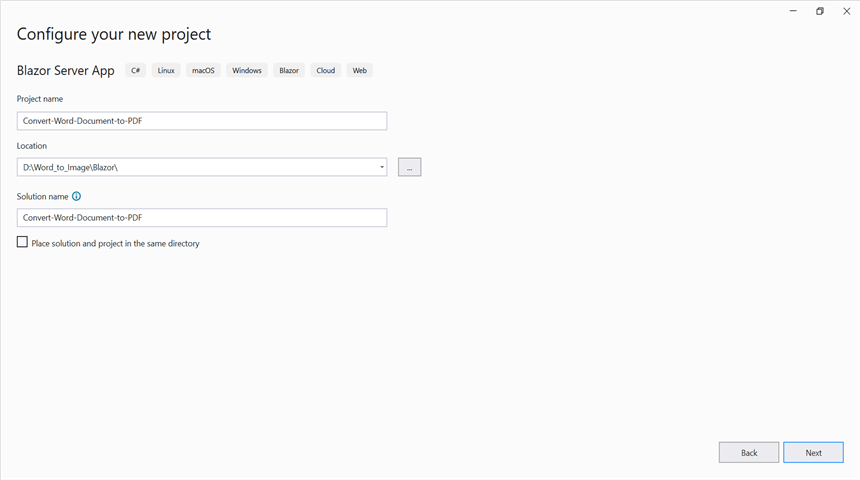
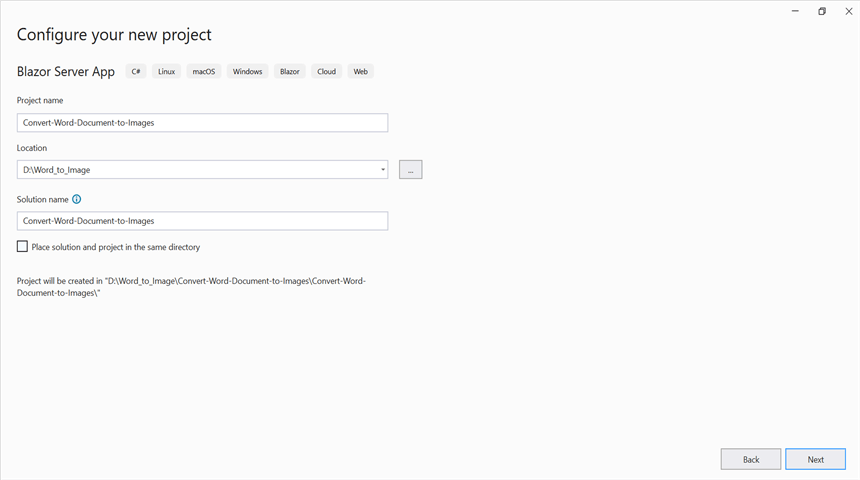
ES-829648-Word to Image

diff --git a/File-Formats/DocIO/Convert-Word-Document-to-Image-in-Blazor.md b/File-Formats/DocIO/Convert-Word-Document-to-Image-in-Blazor.md
@@ -1,0 +1,363 @@
+---
+title: Convert Word to Image in Blazor | DocIO | Syncfusion 
+description: Convert Word to Image without Microsoft Word or interop dependencies in Blazor application using Blazor Word (DocIO) library.
+platform: file-formats
+control: DocIO
+documentation: UG
+---
+
+# Convert Word document to Image in Blazor
+
+Syncfusion DocIO is a [Blazor Word library](https://www.syncfusion.com/document-processing/word-framework/blazor/word-library) used to create, read, edit, and **convert Word documents** programmatically without **Microsoft Word** or interop dependencies. Using this library, you can **convert a Word document to Image in Blazor**.
+
+## Word to Image in Blazor Server app
+
+Step 1: Create a new C# Blazor Server app project. Select Blazor Server App from the template and click the Next button.
+
+![Create Blazor Server app](Blazor_Images/Create-server-project-WordToPDF.png)
+
+Step 2: Now, the project configuration window will popup. Click Create button to create a new project with the required project name.
+
+![Create a project name for your new project](Blazor_Images/Configuration-WordtoImage.png)
+
+
+Step 3: To **convert a Word document to Image in server app**, install [Syncfusion.DocIORenderer.Net.Core](https://www.nuget.org/packages/Syncfusion.DocIORenderer.Net.Core) to the Blazor project.
+
+![Install Syncfusion.DocIORenderer.Net.Core NuGet Package](Blazor_Images/Nuget-Package-WordtoImage.png)
+
+N> Starting with v16.2.0.x, if you reference Syncfusion assemblies from trial setup or from the NuGet feed, you also have to add "Syncfusion.Licensing" assembly reference and include a license key in your projects. Please refer to this [link](https://help.syncfusion.com/common/essential-studio/licensing/overview) to know about registering Syncfusion license key in your application to use our components.
+
+Step 4: Create a razor file with name as **DocIO** under **Pages** folder and include the following namespaces in the file.
+
+
+{% tabs %}
+{% highlight c# tabtitle="C#" %}
+
+@page "/docio"
+@using Convert_Word_Document_to_Image;
+@inject Convert_Word_Document_to_Image.Data.WordService service;
+@inject Microsoft.JSInterop.IJSRuntime JS;
+
+{% endhighlight %}
+{% endtabs %}
+
+Step 5: Add the following code in **DocIO.razor** file to create a new button.
+
+{% tabs %}
+{% highlight CSHTML %}
+
+<h2>Syncfusion DocIO library </h2>
+<p>Syncfusion DocIO library is a Blazor DocIO library used to create, read, edit, and convert Word files in your applications without Microsoft Office dependencies.</p>
+<button class="btn btn-primary" @onclick="@ConvertWordtoImage">Convert Word to Image</button>
+
+{% endhighlight %}
+{% endtabs %}
+
+Step 6: Add the following code in **DocIO.razor** file to create and download the **Image**.
+
+{% tabs %}
+{% highlight c# tabtitle="C#" %}
+@code {
+    MemoryStream documentStream;
+    /// <summary>
+    /// Convert Word to Image and download the Image file
+    /// </summary>
+    protected async void ConvertWordtoImage()
+    {
+        documentStream = service.ConvertWordtoImage();
+        await JS.SaveAs("wordtoimage.jpeg", documentStream.ToArray());
+    }
+}
+{% endhighlight %}
+{% endtabs %}
+
+Step 7: Create a new cs file with name as **WordService** under Data folder and include the following namespaces in the file.
+
+{% tabs %}
+
+{% highlight c# tabtitle="C#" %}
+
+using Syncfusion.DocIO;
+using Syncfusion.DocIO.DLS;
+using Syncfusion.DocIORenderer;
+
+{% endhighlight %}
+
+{% endtabs %}
+
+Step 8: Create a new MemoryStream method with name as **ConvertWordtoImage** in **WordService** class and include the following code snippet to **convert the Word document to Image** in Server app.
+
+{% tabs %}
+
+{% highlight c# tabtitle="C#" %}
+
+//Open the file as Stream
+using (FileStream sourceStreamPath = new FileStream(@"wwwroot/Template.docx", FileMode.Open, FileAccess.Read, FileShare.ReadWrite))
+{
+    //Open an existing Word document.
+    using (WordDocument document = new WordDocument(sourceStreamPath, FormatType.Docx))
+    {
+        //Instantiation of DocIORenderer for Word to Image conversion
+        using (DocIORenderer render = new DocIORenderer())
+        {
+            Stream imageStream = document.RenderAsImages(0, ExportImageFormat.Jpeg);
+            //Reset the stream position.
+            imageStream.Position = 0;
+            return (MemoryStream)imageStream;
+        }
+    }
+}
+
+{% endhighlight %}
+
+{% endtabs %}
+
+Step 9: Create a new class file in the project, with name as FileUtils and add the following code to invoke the JavaScript action to download the file in the browser.
+
+{% tabs %}
+
+{% highlight c# tabtitle="C#" %}
+
+public static class FileUtils
+{
+    public static ValueTask<object> SaveAs(this IJSRuntime js, string filename, byte[] data)
+    => js.InvokeAsync<object>(
+           "saveAsFile",
+           filename,
+           Convert.ToBase64String(data));
+}
+{% endhighlight %}
+
+{% endtabs %}
+
+Step 10: Add the following JavaScript function in the _Host.cshtml in the Pages folder.
+
+{% tabs %}
+
+{% highlight HTML %}
+
+<script type="text/javascript">
+    function saveAsFile(filename, bytesBase64) {
+        if (navigator.msSaveBlob) {
+            //Download document in Edge browser
+            var data = window.atob(bytesBase64);
+            var bytes = new Uint8Array(data.length);
+            for (var i = 0; i < data.length; i++) {
+                bytes[i] = data.charCodeAt(i);
+            }
+            var blob = new Blob([bytes.buffer], { type: "application/octet-stream" });
+            navigator.msSaveBlob(blob, filename);
+        }
+        else {
+            var link = document.createElement('a');
+            link.download = filename;
+            link.href = "data:application/octet-stream;base64," + bytesBase64;
+            document.body.appendChild(link); // Needed for Firefox
+            link.click();
+            document.body.removeChild(link);
+        }
+    }
+</script>
+
+{% endhighlight %}
+
+{% endtabs %}
+
+Step 11: Add the following code snippet in the razor file of Navigation menu in the Shared folder.
+
+{% tabs %}
+
+{% highlight HTML %}
+
+<div class="nav-item px-3">
+    <NavLink class="nav-link" href="docio">
+        <span class="oi oi-list-rich" aria-hidden="true"></span> Convert Word to Image
+    </NavLink>
+</div>
+
+{% endhighlight %}
+
+{% endtabs %}
+
+You can download a complete working sample from [GitHub](https://github.com/SyncfusionExamples/DocIO-Examples/tree/main/Word-to-PDF-Conversion/Convert-Word-document-to-PDF/Blazor/Server-app).
+
+By executing the program, you will get the **Image** as follows.
+
+![Blazor Server app output Image](WordToPDF_images/Output-WordtoImage.png)
+
+## Word to Image in Blazor WASM app
+
+Step 1: Create a new C# Blazor WASM app project. Select Blazor App from the template and click the Next button.
+
+![Create  Blazor WebAssembly app ](Blazor_Images/Blazor_WASM.png)
+
+Step 2: Now, the project configuration window will popup. Click Create button to create a new project with the required project name.
+
+![Create a project name for your new project](Blazor_Images/Web_Assembly_WordtoImage.png)
+
+Step 3: Install the following **Nuget packages** in your application from [Nuget.org](https://www.nuget.org/).
+* [Syncfusion.DocIORenderer.Net.Core](https://www.nuget.org/packages/Syncfusion.DocIORenderer.Net.Core)
+* [SkiaSharp.NativeAssets.WebAssembly](https://www.nuget.org/packages/SkiaSharp.NativeAssets.WebAssembly)
+
+![Install Syncfusion.DocIORenderer.Net.Core NuGet Package](Blazor_Images/Nuget-Package-WordtoImage.png)
+![Install SkiaSharp.NativeAssets.WebAssembly NuGet Package](Blazor_Images/SkiaSharp-Nuget-WordtoPDF.png)
+
+N> Starting with v16.2.0.x, if you reference Syncfusion assemblies from trial setup or from the NuGet feed, you also have to add "Syncfusion.Licensing" assembly reference and include a license key in your projects. Please refer to this [link](https://help.syncfusion.com/common/essential-studio/licensing/overview) to know about registering Syncfusion license key in your application to use our components.
+
+Step 4: Add the following ItemGroup tag in the **Blazor WASM csproj** file.
+{% tabs %}
+
+{% highlight XAML  %}
+<ItemGroup>
+    <NativeFileReference Include="$(SkiaSharpStaticLibraryPath)\2.0.23\*.a" />
+</ItemGroup>
+{% endhighlight %}
+
+{% endtabs %}
+
+N> Install this wasm-tools and wasm-tools-net6 by using the "dotnet workload install wasm-tools" and "dotnet workload install wasm-tools-net6" commands in your command prompt respectively if you are facing issues related to Skiasharp during runtime.
+
+Step 5: Enable the following property in the Blazor WASM csproj file.
+
+{% tabs %}
+{% highlight XAML %}
+<PropertyGroup>
+    <WasmNativeStrip>true</WasmNativeStrip>
+</PropertyGroup>
+{% endhighlight %}
+{% endtabs %}
+
+Step 6: Create a razor file with name as ``DocIO`` under ``Pages`` folder and add the following namespaces in the file.
+
+{% tabs %}
+
+{% highlight c# tabtitle="C#" %}
+@page "/docio"
+@using Syncfusion.DocIO
+@using Syncfusion.DocIORenderer
+@using Syncfusion.DocIO.DLS
+@inject Microsoft.JSInterop.IJSRuntime JS
+@inject HttpClient client
+{% endhighlight %}
+
+{% endtabs %}
+
+Step 7: Add the following code to create a new button.
+
+{% tabs %}
+
+{% highlight CSHTML %}
+
+<h2>Syncfusion DocIO library (Essential DocIO)</h2>
+<p>Syncfusion Blazor DocIO library (Essential DocIO) used to create, read, edit, and convert DocIO files in your applications without Microsoft Office dependencies.</p>
+<button class="btn btn-primary" @onclick="@WordToImage">Convert Word to Image</button>
+
+{% endhighlight %}
+
+{% endtabs %}
+
+Step 8: Create a new async method with name as ``WordToImage`` and include the following code snippet to **convert a Word document to Image in Blazor** WASM app.
+
+{% tabs %}
+
+{% highlight c# tabtitle="C#" %}
+
+using (Stream inputStream = await client.GetStreamAsync("sample-data/Input.docx"))
+{
+    //Open an existing Word document.
+    using (WordDocument document = new WordDocument(inputStream, FormatType.Automatic))
+    {
+        //Initialize the DocIORenderer for Word to Image conversion.
+        using (DocIORenderer render = new DocIORenderer())
+        {
+            //Convert an entire Word document to images.
+            Stream[] imageStreams = document.RenderAsImages();
+            for (int i = 0; i < imageStreams.Length; i++)
+            {
+                imageStreams[i].Position = 0;
+                //Download image file in the browser.
+                await JS.SaveAs("WordToImage_" + i + ".jpeg", (imageStreams[i] as MemoryStream).ToArray());
+            }
+        }
+    }
+}
+
+{% endhighlight %}
+
+{% endtabs %}
+
+Step 9: Create a class file with FileUtils name and add the following code to invoke the JavaScript action to download the file in the browser.
+
+{% tabs %}
+
+{% highlight c# tabtitle="C#" %}
+
+public static class FileUtils
+{
+    public static ValueTask<object> SaveAs(this IJSRuntime js, string filename, byte[] data)
+        => js.InvokeAsync<object>(
+            "saveAsFile",
+            filename,
+            Convert.ToBase64String(data));
+}
+
+{% endhighlight %}
+
+{% endtabs %}
+
+Step 10: Add the following JavaScript function in the Index.html file present under ``wwwroot``.
+
+{% tabs %}
+
+{% highlight HTML %}
+
+<script type="text/javascript">
+    function saveAsFile(filename, bytesBase64) {
+        if (navigator.msSaveBlob) {
+            //Download document in Edge browser
+            var data = window.atob(bytesBase64);
+            var bytes = new Uint8Array(data.length);
+            for (var i = 0; i < data.length; i++) {
+                bytes[i] = data.charCodeAt(i);
+            }
+            var blob = new Blob([bytes.buffer], { type: "application/octet-stream" });
+            navigator.msSaveBlob(blob, filename);
+        }
+        else {
+            var link = document.createElement('a');
+            link.download = filename;
+            link.href = "data:application/octet-stream;base64," + bytesBase64;
+            document.body.appendChild(link); // Needed for Firefox
+            link.click();
+            document.body.removeChild(link);
+        }
+    }
+</script>
+
+{% endhighlight %}
+
+{% endtabs %}
+
+Step 11: Add the following code snippet in the razor file of Navigation menu in the Shared folder.
+
+{% tabs %}
+
+{% highlight HTML %}
+
+ <div class="nav-item px-3">
+    <NavLink class="nav-link" href="docio">
+        <span class="oi oi-list-rich" aria-hidden="true"></span> Word to Image
+    </NavLink>
+</div>
+
+{% endhighlight %}
+
+{% endtabs %}
+
+You can download a complete working sample from [GitHub](https://github.com/SyncfusionExamples/DocIO-Examples/tree/main/Word-to-PDF-Conversion/Convert-Word-document-to-PDF/Blazor/WASM-app).
+
+By executing the program, you will get the **Image** as follows.
+
+![Blazor WASM app output](WordToPDF_images/Output-WordtoImage.png)
+
+N> To convert Word to Image, it is necessary to access the font stream internally. However, this cannot be done automatically in a Blazor WASM application. Therefore, we recommend using a Server app, even though Word to Image conversion works in a WASM app.
